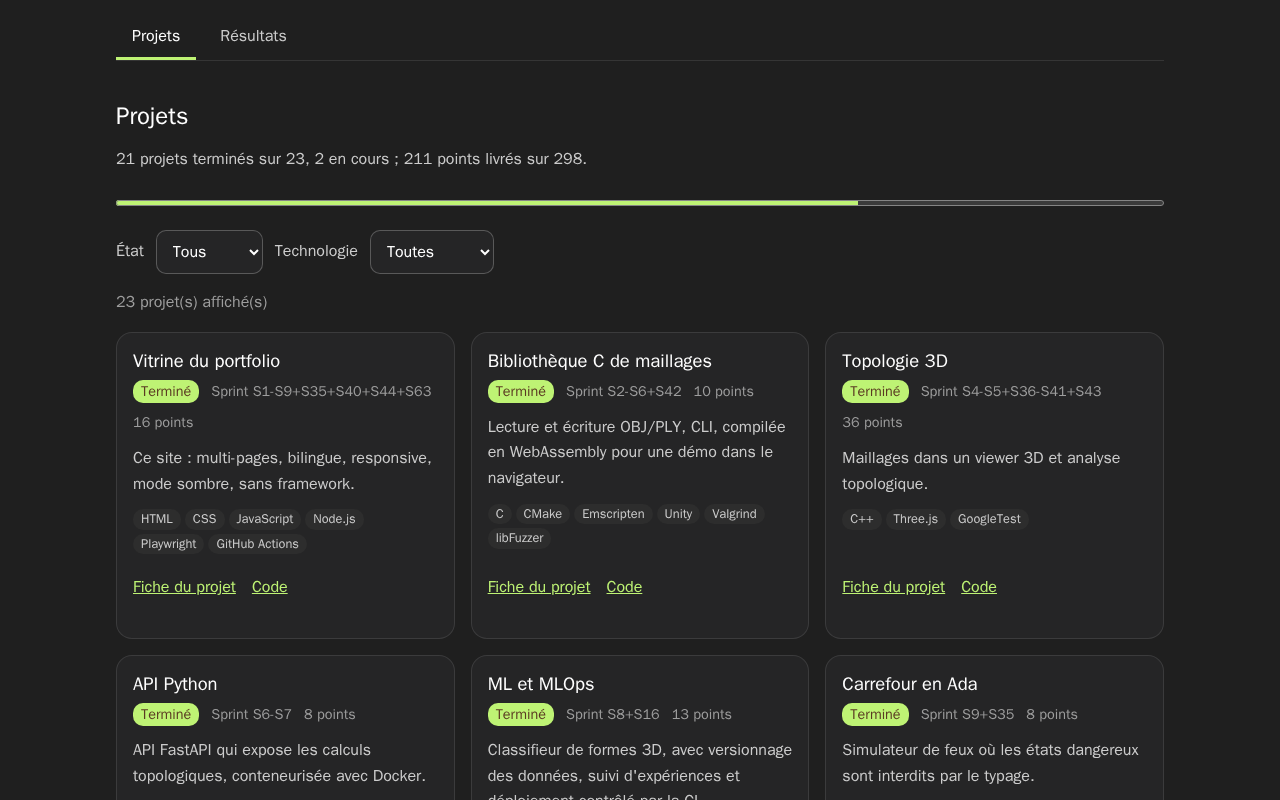
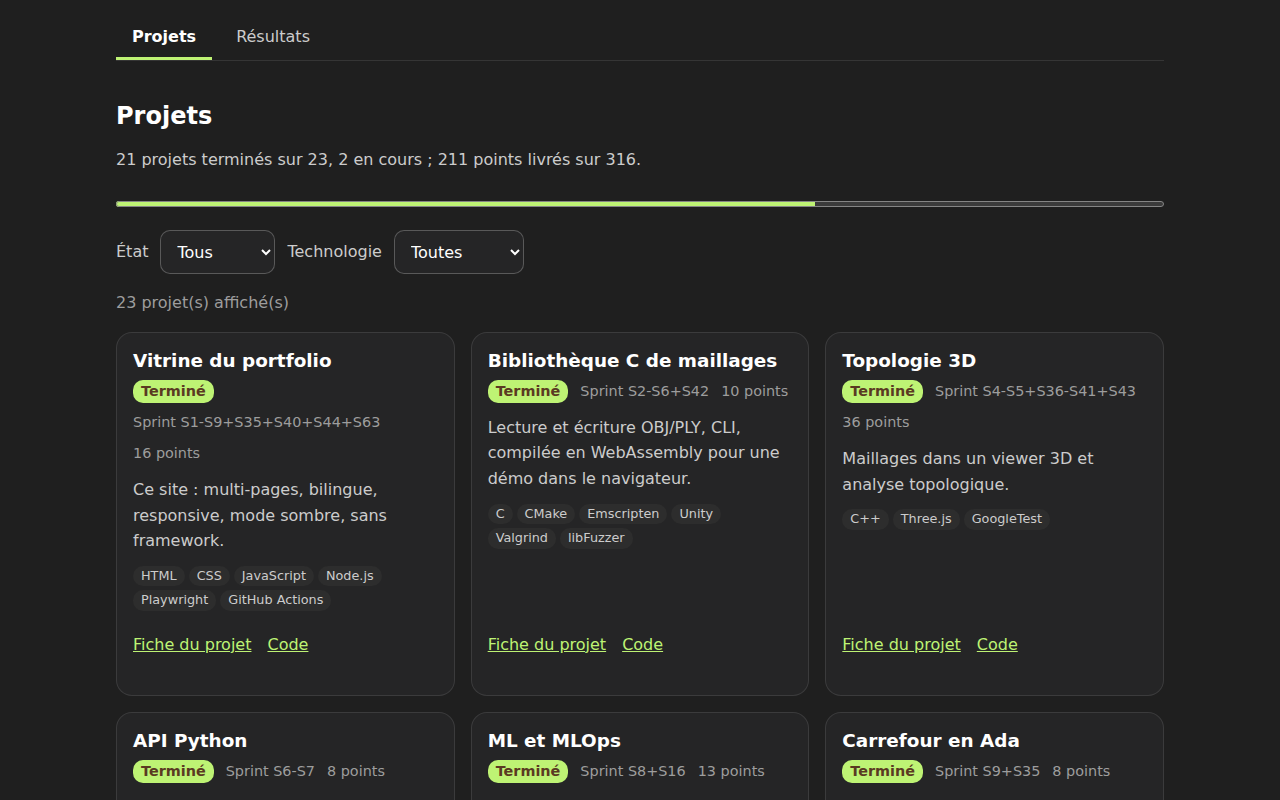
docs: D63, Osmose's world in zones of 5 x 5 maps, a world map seen from the sky and eight monster families (sprints 70-76, 316 points)

diff --git a/DECISIONS.md b/DECISIONS.md
@@ -324,3 +324,8 @@ Le burndown comptait par projet entier, brûlé à son dernier sprint : réouvri
 **Choix (demande de Charles, après un second essai, captures d'un jeu du genre à l'appui) :** quatre sprints de 3 points avant les monstres (S66 à S69, les monstres deviennent S70 ; 298 points, 70 sprints). Les caractéristiques portent le nom de leur élément (Vitalité, Terre, Eau, Feu, Air : « ça fait trop Dofus » sinon), en rose, marron, bleu, rouge et vert, et chacune ne donne que ses dégâts (Charles écarte les soins par l'Intelligence que D61 laissait à valider) ; 8 PA, 4 PM et 10 d'initiative de base ; les points se répartissent à nouveau à tout moment. Chaque classe a 24 sorts, quatre par élément et huit neutres (choix de Charles entre deux comptes), cinq au niveau 1 puis un tous les cinq niveaux, avec des icônes libres de game-icons.net (CC BY 3.0, auteurs crédités ; choix de Charles). Un deck de douze sorts se joue en deux rangées de six (touches 1 à 6, Ctrl+1 à 6). Un menu Échap (options de son, serveur, personnage, quitter), des sons libres (Kenney, CC0 ; choix de Charles), une barre latérale d'icônes (C, S, I, M) et un déplacement libre en diagonale hors combat (le combat reste case par case, sans prévisualisation du chemin dans le monde).
 **Alternatives :** les monstres d'abord ; des encarts dessinés au lieu d'icônes ; un réglage du son sans sons.
 
+## D63. Osmose : un monde de cartes, vu du ciel, et huit familles de monstres (14 octobre 2026)
+**Choix (demande de Charles) :** quatre zones de 5 × 5 cartes chacune, reliées par leurs bords comme dans les jeux du genre (choix de Charles entre cela et un seul grand plateau) : le bois (sangliers, loups), le bois moisi (champignons, zombies), le lac (grenouilles, crabes ; choix de Charles) et les champs (abeilles, taupes ; choix de Charles). Chaque famille compte cinq monstres de la même espèce, un par rôle : DPS mêlée, DPS distance, tank, support (soin ou bouclier), boss (« 5 zombies pour une famille zombie »). La carte du monde montre le monde vu du ciel, comme une seule grande carte, et non plus des cases portant le nom des zones. Ordre choisi par Charles : le monde d'abord (S70 les cartes, S71 la carte vue du ciel), puis une zone et ses familles par sprint (S72 à S76). 18 points de plus : 316 points, 76 sprints ; rpg passe à 95 points. Les captures ne sont plus refaites à chaque sprint (choix de Charles : plus tard, pour la promotion du jeu).
+**Choix de Claude, à valider :** le village de Clairval reste une seule carte, à l'entrée du bois ; le Bois de Clairval et la Lande des Brumes d'aujourd'hui (un plateau chacun, S60) sont remplacés par ces zones. Les cent cartes sont décrites en données et écrites par des scripts (comme `tools/zones_gen.py`), chacune vérifiée accessible par les tests ; les niveaux montent d'une zone à l'autre, dans l'ordre des sprints.
+**Alternatives :** les monstres d'abord, dans les zones actuelles ; une zone d'un seul tenant ; une carte du monde schématique (celle du sprint 60).
+**Limites :** les modèles 3D libres (Kenney, CC0) ne couvrent pas forcément les huit espèces et leurs cinq rôles : il faudra peut-être décliner un même modèle (taille, couleur, accessoire) ou chercher d'autres modèles libres, licences vérifiées une à une. Cent cartes dessinées à la main dépasseraient le temps d'un sprint : elles seront générées, puis retouchées.

diff --git a/scrum/sprint-70.md b/scrum/sprint-70.md
@@ -1,14 +1,12 @@
-# Sprint 70 : Osmose, les premiers monstres
+# Sprint 70 : Osmose, le monde en cartes
 
-**Objectif :** Une première famille de monstres (DPS mêlée, DPS distance, tank, support, boss) en groupes visibles sur la carte.
+**Objectif :** demande de Charles (D63) : un monde fait de cartes reliées : une zone est une grille de 5 × 5 cartes, le bois d'abord.
 
-**En pause (D58) :** Osmose s'arrête après le sprint 60, à la demande de Charles, le temps de l'assistant documentaire (sprints 61 et 62) et des schémas d'architecture (sprint 63, D59) ; Osmose reprend par le personnage (sprints 64 à 69, D61 et D62), puis ce sprint, tel quel.
-
-**Goal:** A first family of monsters (melee and ranged damage, tank, support, boss) in groups visible on the map.
+**Goal:** Charles's request (D63): a world made of linked maps: a zone is a grid of 5 × 5 maps, the woods first.
 
 | Story | Points | État |
 |---|---|---|
-| En tant que joueur, je combats les monstres de la zone (rpg) : une famille de cinq monstres (DPS mêlée, DPS distance, tank, support soin ou bouclier, boss), groupes visibles qui errent, clic pour combattre, réapparition ; XP et butin ; équilibre par simulation ; auto-test, captures. | 3 | À faire |
+| En tant que joueur, je parcours un monde de cartes (rpg) : une zone = une grille de 5 × 5 cartes de la taille d'un écran, reliées par leurs bords (on passe à la voisine en marchant jusqu'au bord) ; le village de Clairval reste une carte, à l'entrée du Bois (25 cartes, décrites en données et écrites par un script, chacune accessible) ; le serveur garde la carte et la case ; xUnit, auto-test. | 3 | À faire |
 
 ## Rétro (Charles)
 - Ce qui a marché :

diff --git a/scrum/sprint-72.md b/scrum/sprint-72.md
@@ -1,0 +1,14 @@
+# Sprint 72 : Osmose, les monstres et les sangliers
+
+**Objectif :** demande de Charles (D63) : les monstres arrivent : groupes visibles qui errent, combat au clic, et la famille des sangliers.
+
+**Goal:** Charles's request (D63): monsters arrive: visible groups that wander, a fight on a click, and the boar family.
+
+| Story | Points | État |
+|---|---|---|
+| En tant que joueur, je combats les monstres du bois (rpg) : groupes visibles qui errent sur les cartes, clic pour combattre, réapparition, XP et butin ; une famille = cinq monstres de la même espèce, un par rôle (DPS mêlée, DPS distance, tank, support soin ou bouclier, boss) : les sangliers ; équilibre par simulation ; xUnit, auto-test. | 3 | À faire |
+
+## Rétro (Charles)
+- Ce qui a marché :
+- Ce que l'IA a mal fait :
+- À changer au prochain sprint :

diff --git a/scrum/sprint-71.md b/scrum/sprint-71.md
@@ -1,0 +1,14 @@
+# Sprint 71 : Osmose, la carte du monde vue du ciel
+
+**Objectif :** demande de Charles (D63) : une carte du monde qui montre le monde vu du ciel, comme une seule grande carte.
+
+**Goal:** Charles's request (D63): a world map showing the world seen from the sky, as one big map.
+
+| Story | Points | État |
+|---|---|---|
+| En tant que joueur, je vois le monde d'en haut (rpg) : la carte du monde (M) assemble toutes les cartes vues du ciel en une seule grande image (terrain, routes, eau, arbres, maisons), avec défilement et zoom, la carte où je suis marquée, le nom des zones au survol ; xUnit, auto-test. | 3 | À faire |
+
+## Rétro (Charles)
+- Ce qui a marché :
+- Ce que l'IA a mal fait :
+- À changer au prochain sprint :

diff --git a/scrum/sprint-74.md b/scrum/sprint-74.md
@@ -1,0 +1,14 @@
+# Sprint 74 : Osmose, le bois moisi
+
+**Objectif :** demande de Charles (D63) : une deuxième zone de 5 × 5 cartes, le bois moisi, avec les champignons et les zombies.
+
+**Goal:** Charles's request (D63): a second zone of 5 × 5 maps, the mouldy woods, with mushrooms and zombies.
+
+| Story | Points | État |
+|---|---|---|
+| En tant que joueur, j'explore le bois moisi (rpg) : 25 cartes reliées au bois, décor moisi ; deux familles de cinq rôles chacune, les champignons et les zombies ; plus forts que ceux du bois ; équilibre par simulation ; xUnit, auto-test. | 3 | À faire |
+
+## Rétro (Charles)
+- Ce qui a marché :
+- Ce que l'IA a mal fait :
+- À changer au prochain sprint :

diff --git a/scrum/sprint-75.md b/scrum/sprint-75.md
@@ -1,0 +1,14 @@
+# Sprint 75 : Osmose, le lac
+
+**Objectif :** demande de Charles (D63) : une zone de lac de 5 × 5 cartes, avec les grenouilles et les crabes.
+
+**Goal:** Charles's request (D63): a lake zone of 5 × 5 maps, with frogs and crabs.
+
+| Story | Points | État |
+|---|---|---|
+| En tant que joueur, j'explore le lac (rpg) : 25 cartes autour d'un lac (rives, pontons, îlots) ; deux familles de cinq rôles chacune, les grenouilles et les crabes ; équilibre par simulation ; xUnit, auto-test. | 3 | À faire |
+
+## Rétro (Charles)
+- Ce qui a marché :
+- Ce que l'IA a mal fait :
+- À changer au prochain sprint :

diff --git a/scrum/sprint-76.md b/scrum/sprint-76.md
@@ -1,0 +1,14 @@
+# Sprint 76 : Osmose, les champs
+
+**Objectif :** demande de Charles (D63) : une zone de champs de 5 × 5 cartes, avec les abeilles et les taupes.
+
+**Goal:** Charles's request (D63): a fields zone of 5 × 5 maps, with bees and moles.
+
+| Story | Points | État |
+|---|---|---|
+| En tant que joueur, j'explore les champs (rpg) : 25 cartes de champs, haies et fermes ; deux familles de cinq rôles chacune, les abeilles et les taupes ; équilibre par simulation ; xUnit, auto-test. | 3 | À faire |
+
+## Rétro (Charles)
+- Ce qui a marché :
+- Ce que l'IA a mal fait :
+- À changer au prochain sprint :

diff --git a/scrum/sprint-73.md b/scrum/sprint-73.md
@@ -1,0 +1,14 @@
+# Sprint 73 : Osmose, les loups
+
+**Objectif :** demande de Charles (D63) : la deuxième famille du bois : les loups, les cinq rôles.
+
+**Goal:** Charles's request (D63): the woods' second family: wolves, all five roles.
+
+| Story | Points | État |
+|---|---|---|
+| En tant que joueur, je croise deux familles dans le bois (rpg) : les loups (DPS mêlée, DPS distance, tank, support, boss), mêlés aux sangliers selon les cartes ; équilibre par simulation ; xUnit, auto-test. | 3 | À faire |
+
+## Rétro (Charles)
+- Ce qui a marché :
+- Ce que l'IA a mal fait :
+- À changer au prochain sprint :
